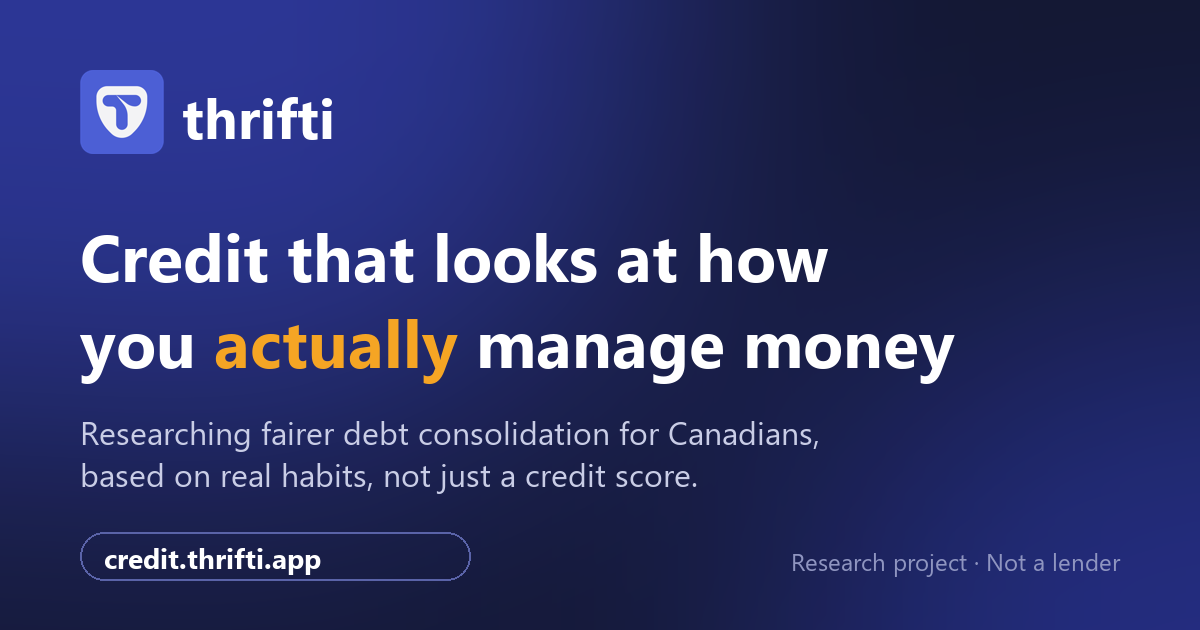
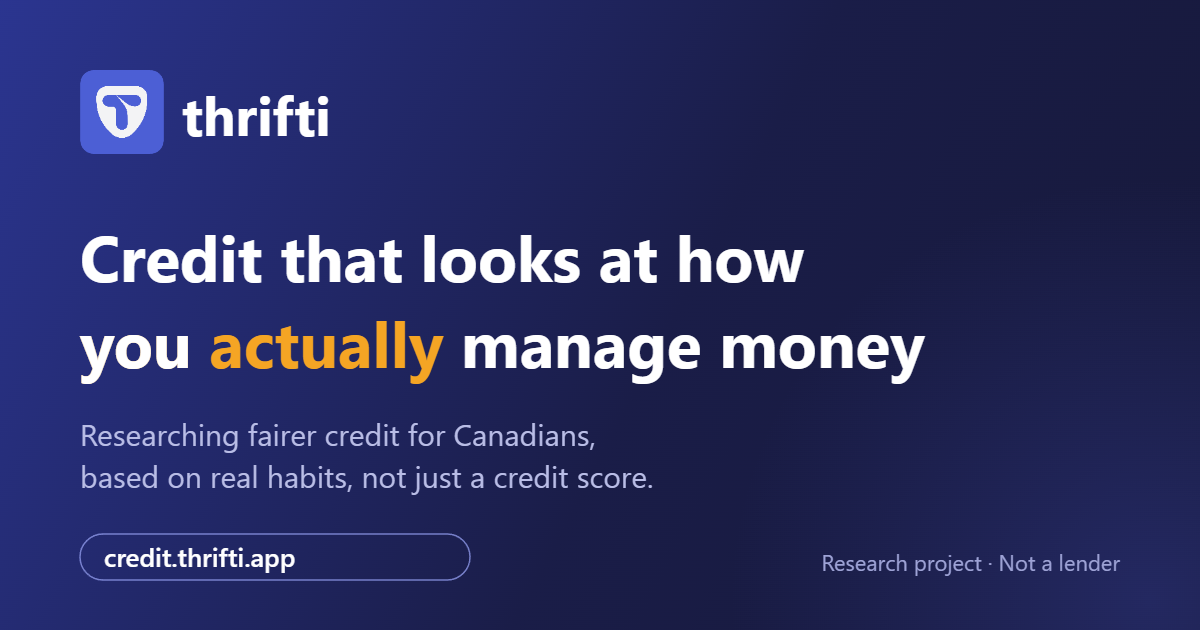
Say fairer credit instead of debt consolidation on both sites
Updates page text, search and share descriptions, and the link preview image.

diff --git a/site/index.html b/site/index.html
@@ -4,19 +4,19 @@
 <meta charset="utf-8">
 <meta name="viewport" content="width=device-width, initial-scale=1">
 <title>thrifti | fairer credit, research stage</title>
-<meta name="description" content="thrifti is a research project in Canada exploring fairer debt consolidation, based on how you actually manage money, not just a credit score.">
+<meta name="description" content="thrifti credit is a research project exploring fairer credit, based on how you actually manage money, not just a credit score.">
 <meta property="og:type" content="website">
 <meta property="og:site_name" content="thrifti">
 <meta property="og:url" content="https://credit.thrifti.app/">
 <meta property="og:title" content="thrifti | fairer credit, research stage">
-<meta property="og:description" content="Researching fairer debt consolidation for Canadians, based on real habits, not just a credit score. A research project, not a lender.">
+<meta property="og:description" content="Researching fairer credit for Canadians, based on real habits, not just a credit score. A research project, not a lender.">
 <meta property="og:image" content="https://credit.thrifti.app/img/og-image.png">
 <meta property="og:image:width" content="1200">
 <meta property="og:image:height" content="630">
 <meta property="og:image:alt" content="thrifti: credit that looks at how you actually manage money">
 <meta name="twitter:card" content="summary_large_image">
 <meta name="twitter:title" content="thrifti | fairer credit, research stage">
-<meta name="twitter:description" content="Researching fairer debt consolidation for Canadians, based on real habits, not just a credit score. A research project, not a lender.">
+<meta name="twitter:description" content="Researching fairer credit for Canadians, based on real habits, not just a credit score. A research project, not a lender.">
 <meta name="twitter:image" content="https://credit.thrifti.app/img/og-image.png">
 <meta name="theme-color" content="#4C5FD5">
 <link rel="icon" href="favicon.svg" type="image/svg+xml">
@@ -50,7 +50,7 @@
         <p class="hero-tagline js-tagline">AI for the people</p>
         <h1>Credit that looks at how you <em>actually</em> manage money</h1>
         <p class="human-line">AI reads the numbers. A person makes the call. You can always talk to a real person.</p>
-        <p class="lead">Millions of Canadians pay 20 percent or more on credit cards, even when they pay rent and bills on time. We are exploring a fairer way to consolidate debt, based on your real habits, not just a credit score.</p>
+        <p class="lead">Millions of Canadians pay 20 percent or more on credit cards, even when they pay rent and bills on time. We are exploring a fairer way to look at credit, based on your real habits, not just a credit score.</p>
         <div class="hero-actions">
           <a class="btn btn-primary js-waitlist" href="#join">Join the waitlist</a>
           <a class="btn btn-ghost" href="#calculator">See what your debt costs</a>
@@ -189,7 +189,7 @@
       <div class="steps">
         <div class="step"><span>01</span><p>You join the waitlist and, if you like, talk to us for 30 minutes.</p></div>
         <div class="step"><span>02</span><p>We test the idea with real people and a licensed lending partner, such as a credit union.</p></div>
-        <div class="step"><span>03</span><p>If it works, one clear consolidation option, with every decision explained and no hidden fees.</p></div>
+        <div class="step"><span>03</span><p>If it works, one clear, fairer credit option, with every decision explained and no hidden fees.</p></div>
       </div>
     </div>
   </section>

diff --git a/site/v2/index.html b/site/v2/index.html
@@ -4,19 +4,19 @@
 <meta charset="utf-8">
 <meta name="viewport" content="width=device-width, initial-scale=1">
 <title>thrifti | credit that looks at how you actually manage money</title>
-<meta name="description" content="thrifti is researching fairer debt consolidation for Canadians, priced from real money habits, not just a credit score. Research stage. Not a lender.">
+<meta name="description" content="thrifti credit is researching fairer credit for Canadians, based on real money habits, not just a credit score. Research stage. Not a lender.">
 <meta property="og:type" content="website">
 <meta property="og:site_name" content="thrifti">
 <meta property="og:url" content="https://credit.thrifti.app/v2/">
 <meta property="og:title" content="thrifti | credit that looks at how you actually manage money">
-<meta property="og:description" content="Researching fairer debt consolidation for Canadians, based on real habits, not just a credit score. A research project, not a lender.">
+<meta property="og:description" content="Researching fairer credit for Canadians, based on real habits, not just a credit score. A research project, not a lender.">
 <meta property="og:image" content="https://credit.thrifti.app/img/og-image.png">
 <meta property="og:image:width" content="1200">
 <meta property="og:image:height" content="630">
 <meta property="og:image:alt" content="thrifti: credit that looks at how you actually manage money">
 <meta name="twitter:card" content="summary_large_image">
 <meta name="twitter:title" content="thrifti | credit that looks at how you actually manage money">
-<meta name="twitter:description" content="Researching fairer debt consolidation for Canadians, based on real habits, not just a credit score. A research project, not a lender.">
+<meta name="twitter:description" content="Researching fairer credit for Canadians, based on real habits, not just a credit score. A research project, not a lender.">
 <meta name="twitter:image" content="https://credit.thrifti.app/img/og-image.png">
 <link rel="icon" href="../favicon.svg" type="image/svg+xml">
 <link rel="stylesheet" href="v2.css">
